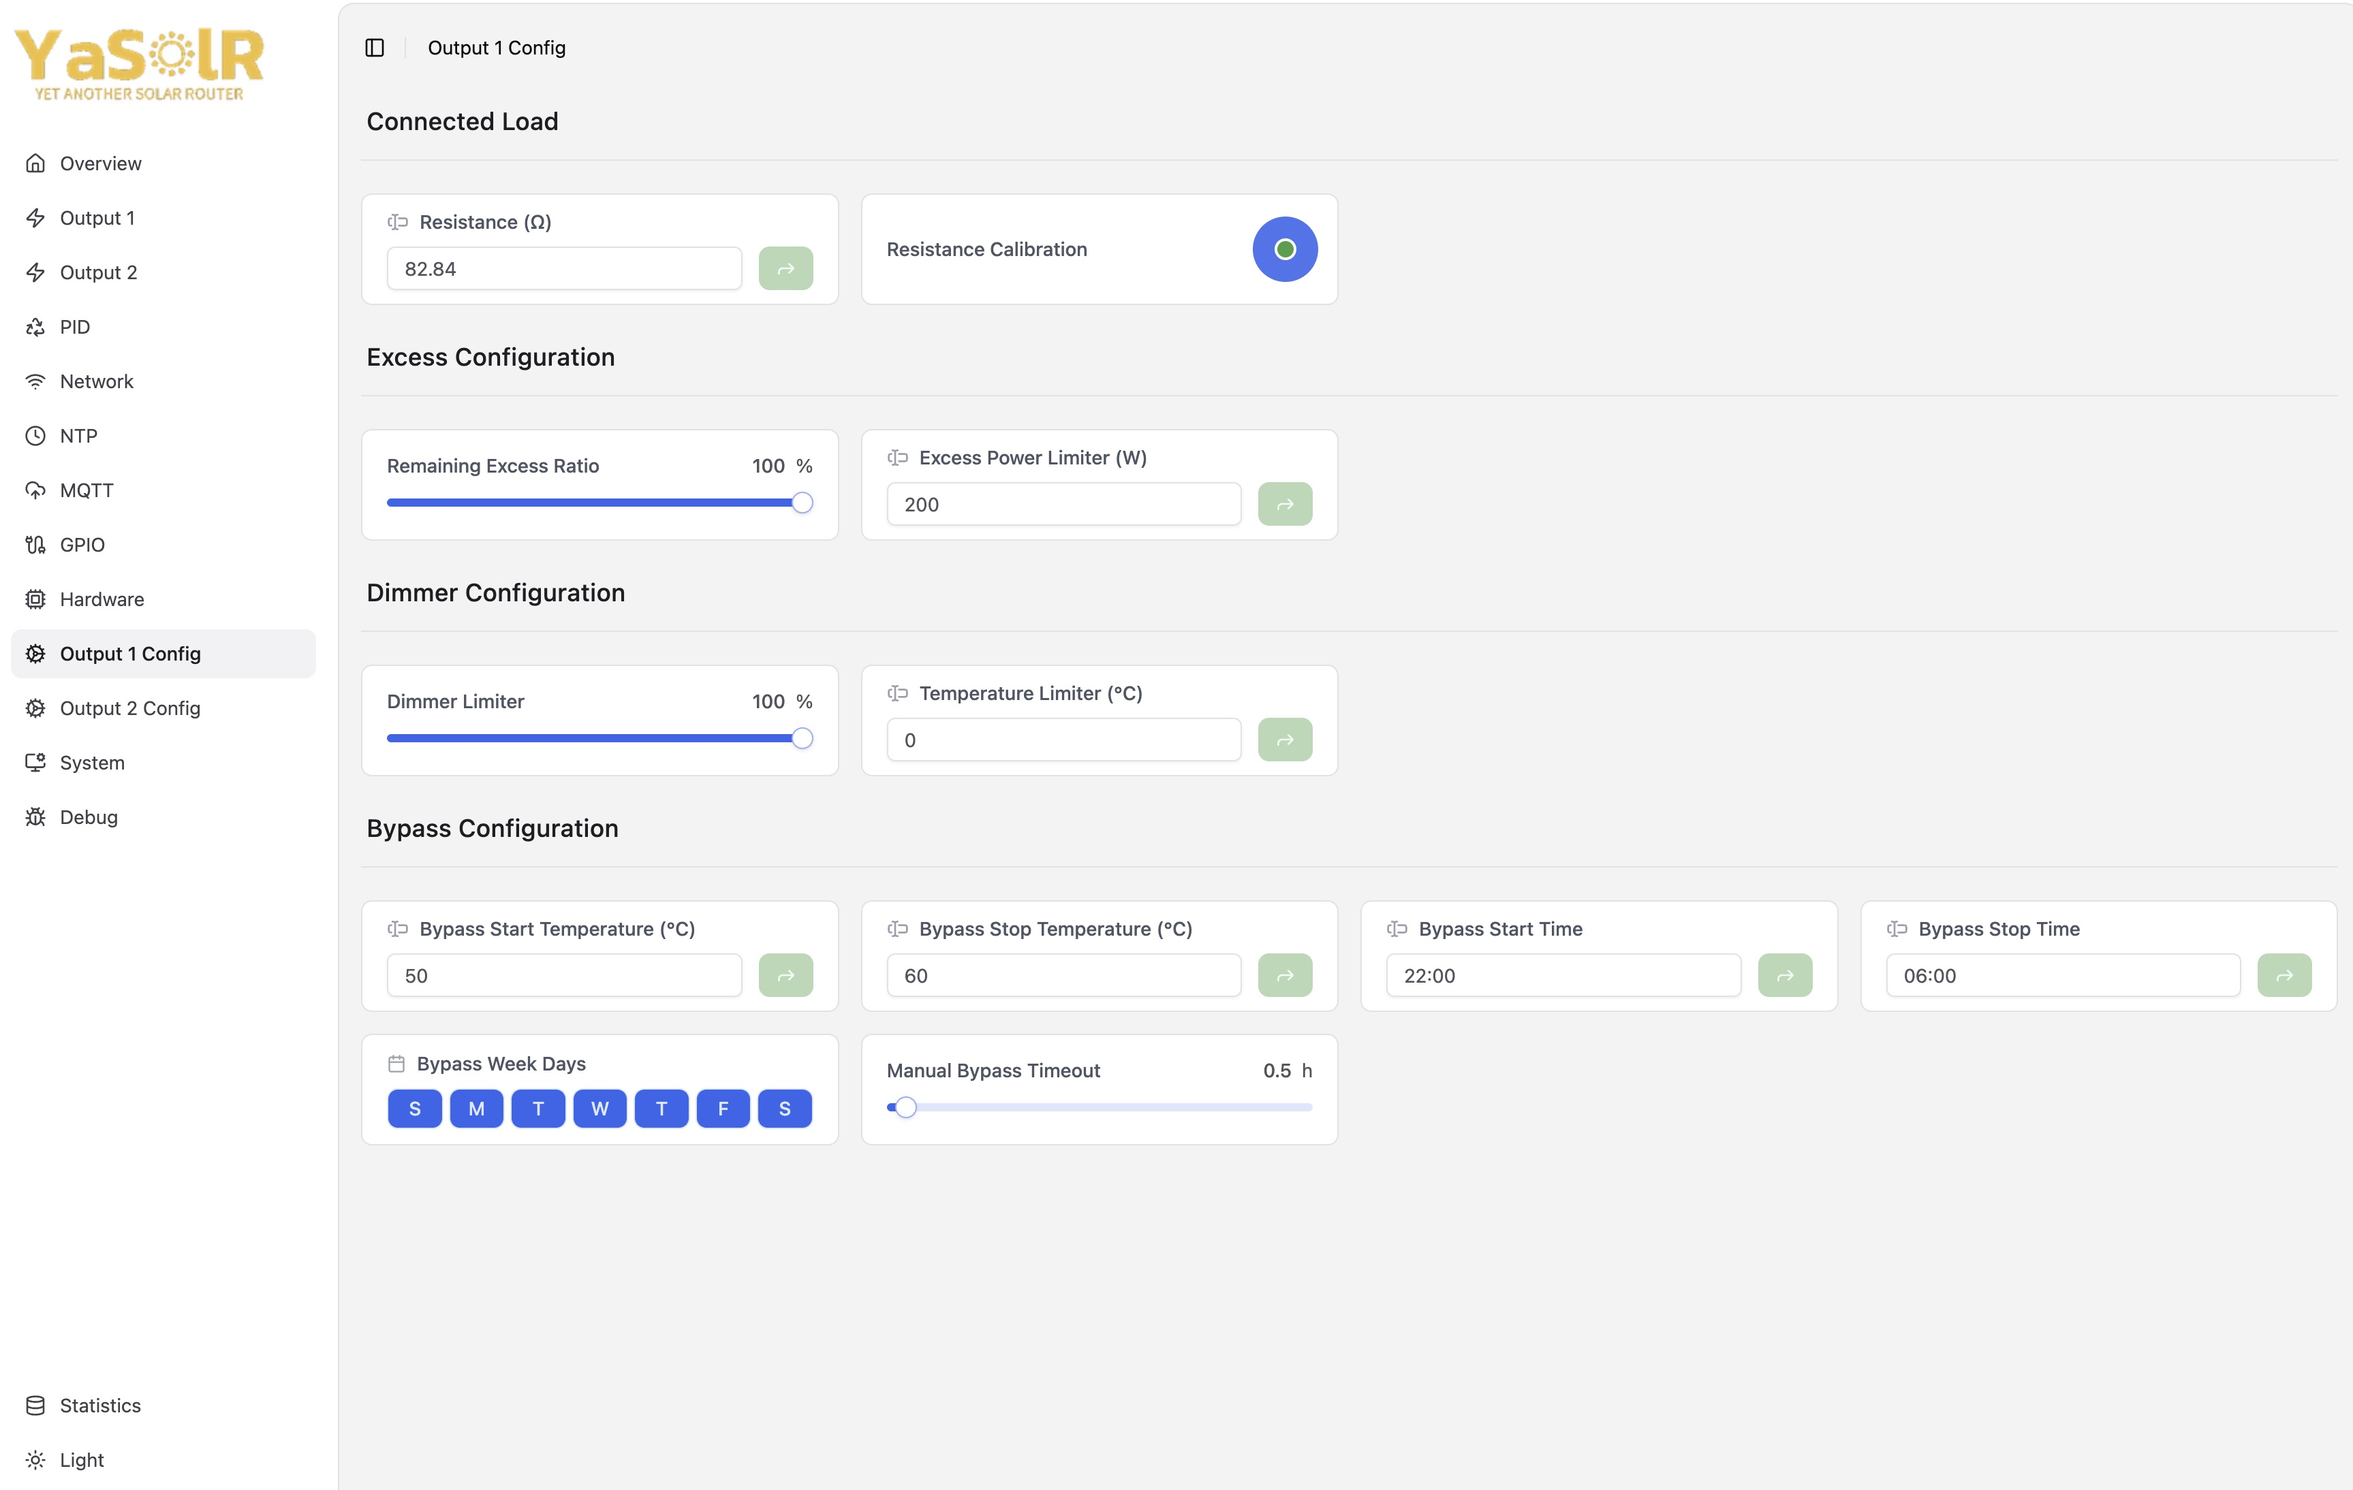
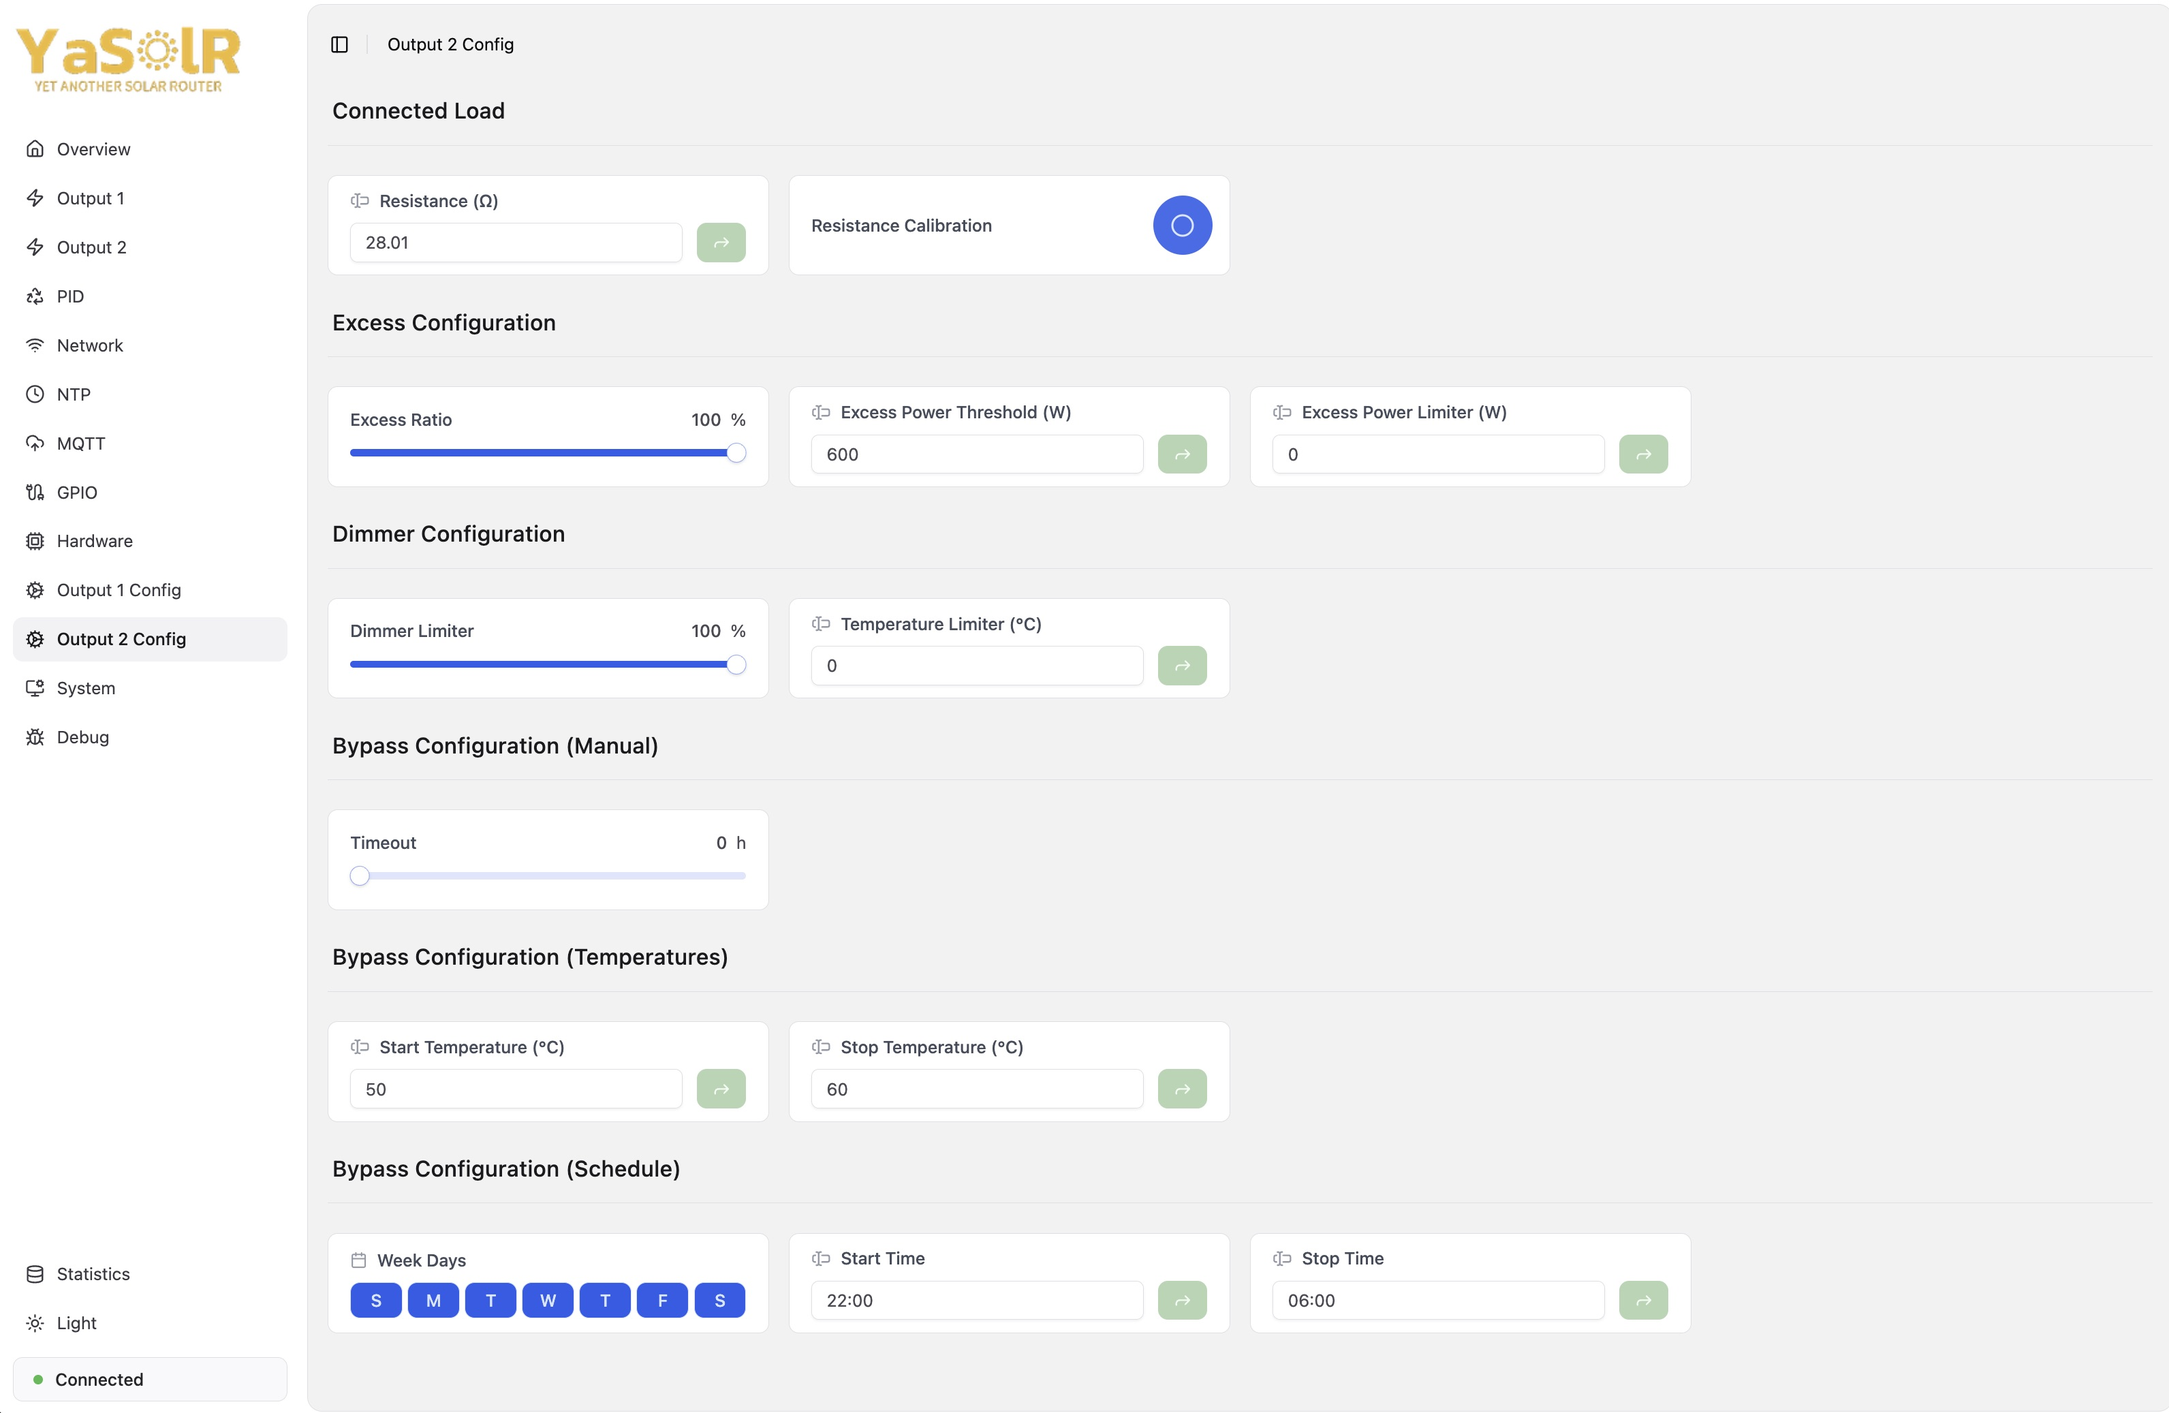
feat: Support Dimmer Excess Power Threshold (W)
Dimmer Excess Power Threshold (W) is an new config that, if set, will make the dimmer wait until an excess threshold is reached before starting dimming.

When the excess power is at around the threshold, the PID there will be some little oscillations because the PID will make the dimmer start, but the excess can still fluctuate to the point where the dimmer will stop because the excess has changed. This oscillation usually lasts a few seconds.

Ref: https://github.com/mathieucarbou/YaSolR/discussions/205

diff --git a/src/yasolr_dashboard.cpp b/src/yasolr_dashboard.cpp
@@ -391,6 +391,7 @@ static dash::PushButtonCard _output1ResistanceCalibration(dashboard, YASOLR_LBL_
 static dash::ProgressCard<uint8_t> _output1ResistanceCalibrationStatus(dashboard, YASOLR_LBL_186, 0, 100, "%");
 static dash::SeparatorCard<const char*> _output1ConfigSep3(dashboard, YASOLR_LBL_107);
 static dash::PercentageSliderCard _output1ExcessRatio(dashboard, YASOLR_LBL_112);
+static dash::InputCard<uint16_t> _output1ExcessMin(dashboard, YASOLR_LBL_092);
 static dash::InputCard<uint16_t> _output1ExcessLimiter(dashboard, YASOLR_LBL_061);
 static dash::SeparatorCard<const char*> _output1ConfigSep1(dashboard, YASOLR_LBL_136);
 static dash::PercentageSliderCard _output1DimmerDutyLimiter(dashboard, YASOLR_LBL_062);
@@ -413,6 +414,7 @@ static dash::PushButtonCard _output2ResistanceCalibration(dashboard, YASOLR_LBL_
 static dash::ProgressCard<uint8_t> _output2ResistanceCalibrationStatus(dashboard, YASOLR_LBL_186, 0, 100, "%");
 static dash::SeparatorCard<const char*> _output2ConfigSep3(dashboard, YASOLR_LBL_107);
 static dash::PercentageSliderCard _output2ExcessRatio(dashboard, YASOLR_LBL_112);
+static dash::InputCard<uint16_t> _output2ExcessMin(dashboard, YASOLR_LBL_092);
 static dash::InputCard<uint16_t> _output2ExcessLimiter(dashboard, YASOLR_LBL_061);
 static dash::SeparatorCard<const char*> _output2ConfigSep1(dashboard, YASOLR_LBL_136);
 static dash::PercentageSliderCard _output2DimmerDutyLimiter(dashboard, YASOLR_LBL_062);
@@ -1007,6 +1009,7 @@ void YaSolR::Website::begin() {
   _output1ConfigSep1.setTab(_output1ConfigTab);
   _output1DimmerDutyLimiter.setTab(_output1ConfigTab);
   _output1DimmerTempLimiter.setTab(_output1ConfigTab);
+  _output1ExcessMin.setTab(_output1ConfigTab);
   _output1ExcessLimiter.setTab(_output1ConfigTab);
   _output1ExcessRatio.setTab(_output1ConfigTab);
   _output1ConfigSep2.setTab(_output1ConfigTab);
@@ -1022,6 +1025,7 @@ void YaSolR::Website::begin() {
   _numConfig(_output1ResistanceInput, KEY_OUTPUT1_RESISTANCE);
   _sliderConfig(_output1DimmerDutyLimiter, KEY_OUTPUT1_DIMMER_LIMIT);
   _numConfig(_output1DimmerTempLimiter, KEY_OUTPUT1_DIMMER_TEMP_LIMITER);
+  _numConfig(_output1ExcessMin, KEY_OUTPUT1_EXCESS_MIN);
   _numConfig(_output1ExcessLimiter, KEY_OUTPUT1_EXCESS_LIMITER);
   _sliderConfig(_output1ExcessRatio, KEY_OUTPUT1_EXCESS_RATIO);
   _numConfig(_output1AutoStartTemp, KEY_OUTPUT1_TEMPERATURE_START);
@@ -1044,6 +1048,7 @@ void YaSolR::Website::begin() {
   _output2ConfigSep1.setTab(_output2ConfigTab);
   _output2DimmerDutyLimiter.setTab(_output2ConfigTab);
   _output2DimmerTempLimiter.setTab(_output2ConfigTab);
+  _output2ExcessMin.setTab(_output2ConfigTab);
   _output2ExcessLimiter.setTab(_output2ConfigTab);
   _output2ExcessRatio.setTab(_output2ConfigTab);
   _output2ConfigSep2.setTab(_output2ConfigTab);
@@ -1059,6 +1064,7 @@ void YaSolR::Website::begin() {
   _numConfig(_output2ResistanceInput, KEY_OUTPUT2_RESISTANCE);
   _sliderConfig(_output2DimmerDutyLimiter, KEY_OUTPUT2_DIMMER_LIMIT);
   _numConfig(_output2DimmerTempLimiter, KEY_OUTPUT2_DIMMER_TEMP_LIMITER);
+  _numConfig(_output2ExcessMin, KEY_OUTPUT2_EXCESS_MIN);
   _numConfig(_output2ExcessLimiter, KEY_OUTPUT2_EXCESS_LIMITER);
   _sliderConfig(_output2ExcessRatio, KEY_OUTPUT2_EXCESS_RATIO);
   _numConfig(_output2AutoStartTemp, KEY_OUTPUT2_TEMPERATURE_START);
@@ -1447,6 +1453,7 @@ void YaSolR::Website::initCards() {
   _output1DimmerDutyLimiter.setDisplay(dimmer1Enabled);
   _output1DimmerTempLimiter.setValue(config.get<uint8_t>(KEY_OUTPUT1_DIMMER_TEMP_LIMITER));
   _output1DimmerTempLimiter.setDisplay(dimmer1Enabled);
+  _output1ExcessMin.setValue(config.get<uint16_t>(KEY_OUTPUT1_EXCESS_MIN));
   _output1ExcessLimiter.setValue(config.get<uint16_t>(KEY_OUTPUT1_EXCESS_LIMITER));
   _output1ExcessLimiter.setDisplay(dimmer1Enabled);
   _output1ExcessRatio.setValue(config.get<uint8_t>(KEY_OUTPUT1_EXCESS_RATIO));
@@ -1476,6 +1483,7 @@ void YaSolR::Website::initCards() {
   _output2DimmerDutyLimiter.setDisplay(dimmer2Enabled);
   _output2DimmerTempLimiter.setValue(config.get<uint8_t>(KEY_OUTPUT2_DIMMER_TEMP_LIMITER));
   _output2DimmerTempLimiter.setDisplay(dimmer2Enabled);
+  _output2ExcessMin.setValue(config.get<uint16_t>(KEY_OUTPUT2_EXCESS_MIN));
   _output2ExcessLimiter.setValue(config.get<uint16_t>(KEY_OUTPUT2_EXCESS_LIMITER));
   _output2ExcessLimiter.setDisplay(dimmer2Enabled);
   _output2ExcessRatio.setValue(config.get<uint8_t>(KEY_OUTPUT2_EXCESS_RATIO));

diff --git a/lib/MycilaRouter/MycilaRouter.h b/lib/MycilaRouter/MycilaRouter.h
@@ -142,6 +142,7 @@ namespace Mycila {
               std::string autoStopTime;
               std::string weekDays;
               uint16_t excessPowerLimiter = 0;
+              uint16_t excessPowerMin = 0;
               float excessPowerRatio = 0.0f;
           } Config;
 
@@ -260,7 +261,15 @@ namespace Mycila {
           // - gridVoltage > 0
           // - availablePowerToDivert > 0
           // - config.calibratedResistance > 0
-          float divert(float gridVoltage, float availablePowerToDivert) {
+          // - error == setpoint - input (grid power)
+          // returns: the real used power as per the dimmer state
+          float divert(float gridVoltage, float availablePowerToDivert, float error) {
+            // If user has set a threshold for this output, we only activate it if the available power to divert is above or equal to this threshold
+            if (config.excessPowerMin > 0 && error < config.excessPowerMin && availablePowerToDivert < config.excessPowerMin) {
+              _dimmer->setDutyCycle(0);
+              return 0.0f;
+            }
+
             // maximum power of the load based on the calibrated resistance value
             const float maxPower = gridVoltage * gridVoltage / config.calibratedResistance;
 
@@ -463,13 +472,14 @@ namespace Mycila {
         return false;
       }
 
-      void noDivert() { divert(0, 0); }
+      void noDivert() { divert(0, 0, 0); }
 
       // preconditions:
       // - gridVoltage >= 0
       // - powerToDivert >= 0
+      // - error == setpoint - input (grid power)
       // - can only be called if !isCalibrationRunning()
-      float divert(const float gridVoltage, const float powerToDivert) {
+      float divert(const float gridVoltage, const float powerToDivert, const float error) {
         // copy the output vector
         std::vector<Output*> remainingOutputs = _outputs;
 
@@ -515,7 +525,7 @@ namespace Mycila {
               // Notes:
               // - we have ensured gridVoltage > 0
               // - we have ensured config.calibratedResistance > 0 with isAutoDimmerEnabled()
-              output->divert(gridVoltage, 100.0f);
+              output->divert(gridVoltage, 100.0f, error);
               it = remainingOutputs.erase(it);
             } else {
               ++it;
@@ -550,7 +560,7 @@ namespace Mycila {
 
           // - we have ensured gridVoltage > 0
           // - we have ensured config.calibratedResistance > 0 with isAutoDimmerEnabled()
-          routedPower += output->divert(gridVoltage, ratio);
+          routedPower += output->divert(gridVoltage, ratio, error);
         }
 
         return routedPower;

diff --git a/src/yasolr_config.cpp b/src/yasolr_config.cpp
@@ -142,6 +142,7 @@ static void init_config() {
   config.configure(KEY_OUTPUT1_DIMMER_TEMP_LIMITER, static_cast<uint8_t>(0));
   config.configure(KEY_OUTPUT1_DIMMER);
   config.configure(KEY_OUTPUT1_EXCESS_LIMITER, static_cast<uint16_t>(0));
+  config.configure(KEY_OUTPUT1_EXCESS_MIN, static_cast<uint16_t>(0));
   config.configure(KEY_OUTPUT1_EXCESS_RATIO, static_cast<uint8_t>(100));
   config.configure(KEY_OUTPUT1_RELAY);
   config.configure(KEY_OUTPUT1_RESISTANCE, 0.0f);
@@ -159,6 +160,7 @@ static void init_config() {
   config.configure(KEY_OUTPUT2_DIMMER_TEMP_LIMITER, static_cast<uint8_t>(0));
   config.configure(KEY_OUTPUT2_DIMMER);
   config.configure(KEY_OUTPUT2_EXCESS_LIMITER, static_cast<uint16_t>(0));
+  config.configure(KEY_OUTPUT2_EXCESS_MIN, static_cast<uint16_t>(0));
   config.configure(KEY_OUTPUT2_EXCESS_RATIO, static_cast<uint8_t>(100));
   config.configure(KEY_OUTPUT2_RELAY);
   config.configure(KEY_OUTPUT2_RESISTANCE, 0.0f);
@@ -301,6 +303,9 @@ void yasolr_init_config() {
     } else if (key == KEY_OUTPUT1_EXCESS_LIMITER) {
       output1.config.excessPowerLimiter = config.get<uint16_t>(KEY_OUTPUT1_EXCESS_LIMITER);
 
+    } else if (key == KEY_OUTPUT1_EXCESS_MIN) {
+      output1.config.excessPowerMin = config.get<uint16_t>(KEY_OUTPUT1_EXCESS_MIN);
+
     } else if (key == KEY_OUTPUT1_EXCESS_RATIO) {
       output1.config.excessPowerRatio = config.get<uint8_t>(KEY_OUTPUT1_EXCESS_RATIO) / 100.0f;
 
@@ -352,6 +357,9 @@ void yasolr_init_config() {
 
     } else if (key == KEY_OUTPUT2_EXCESS_LIMITER) {
       output2.config.excessPowerLimiter = config.get<uint16_t>(KEY_OUTPUT2_EXCESS_LIMITER);
+
+    } else if (key == KEY_OUTPUT2_EXCESS_MIN) {
+      output2.config.excessPowerMin = config.get<uint16_t>(KEY_OUTPUT2_EXCESS_MIN);
 
     } else if (key == KEY_OUTPUT2_EXCESS_RATIO) {
       output2.config.excessPowerRatio = config.get<uint8_t>(KEY_OUTPUT2_EXCESS_RATIO) / 100.0f;

diff --git a/src/yasolr_router.cpp b/src/yasolr_router.cpp
@@ -321,6 +321,7 @@ void yasolr_init_router() {
   output1.config.bypassTimeoutSec = config.get<uint16_t>(KEY_OUTPUT1_BYPASS_TIMEOUT);
   output1.config.calibratedResistance = config.get<float>(KEY_OUTPUT1_RESISTANCE);
   output1.config.dimmerTempLimit = config.get<uint8_t>(KEY_OUTPUT1_DIMMER_TEMP_LIMITER);
+  output1.config.excessPowerMin = config.get<uint16_t>(KEY_OUTPUT1_EXCESS_MIN);
   output1.config.excessPowerLimiter = config.get<uint16_t>(KEY_OUTPUT1_EXCESS_LIMITER);
   output1.config.excessPowerRatio = config.get<uint8_t>(KEY_OUTPUT1_EXCESS_RATIO) / 100.0f;
   output1.config.weekDays = config.getString(KEY_OUTPUT1_DAYS);
@@ -337,6 +338,7 @@ void yasolr_init_router() {
   output2.config.bypassTimeoutSec = config.get<uint16_t>(KEY_OUTPUT2_BYPASS_TIMEOUT);
   output2.config.calibratedResistance = config.get<float>(KEY_OUTPUT2_RESISTANCE);
   output2.config.dimmerTempLimit = config.get<uint8_t>(KEY_OUTPUT2_DIMMER_TEMP_LIMITER);
+  output2.config.excessPowerMin = config.get<uint16_t>(KEY_OUTPUT2_EXCESS_MIN);
   output2.config.excessPowerLimiter = config.get<uint16_t>(KEY_OUTPUT2_EXCESS_LIMITER);
   output2.config.excessPowerRatio = config.get<uint8_t>(KEY_OUTPUT2_EXCESS_RATIO) / 100.0f;
   output2.config.weekDays = config.getString(KEY_OUTPUT2_DAYS);

diff --git a/src/yasolr_pid.cpp b/src/yasolr_pid.cpp
@@ -17,7 +17,7 @@ Mycila::Task pidTask("PID", []() {
   if (voltage.has_value() && power.has_value()) {
     float gridPower = power.value();
     float powerToDivert = pidController.compute(gridPower);
-    float diverted = router.divert(voltage.value(), powerToDivert);
+    float diverted = router.divert(voltage.value(), powerToDivert, pidController.getError());
 
     if (diverted > 0) {
       // check if the measurement system is too slow
@@ -49,7 +49,9 @@ void yasolr_init_pid() {
   pidController.setIntegralCorrectionMode(Mycila::PID::IntegralCorrectionMode::CLAMP);
   pidController.reset(0);
 
-  pidTask.setEnabledWhen([]() { return !router.isCalibrationRunning(); });
+  pidTask.setEnabledWhen([]() {
+    return !router.isCalibrationRunning();
+  });
   if (config.get<bool>(KEY_ENABLE_DEBUG))
     pidTask.enableProfiling();
   coreTaskManager.addTask(pidTask);

diff --git a/include/yasolr_macros.h b/include/yasolr_macros.h
@@ -154,6 +154,7 @@
 #define KEY_OUTPUT1_DIMMER_TEMP_LIMITER    "o1_dim_max_t"
 #define KEY_OUTPUT1_DIMMER                 "o1_dim_type"
 #define KEY_OUTPUT1_EXCESS_LIMITER         "o1_excess_limit"
+#define KEY_OUTPUT1_EXCESS_MIN             "o1_excess_min"
 #define KEY_OUTPUT1_EXCESS_RATIO           "o1_excess_ratio"
 #define KEY_OUTPUT1_RELAY                  "o1_relay_type"
 #define KEY_OUTPUT1_RESISTANCE             "o1_resistance"
@@ -171,6 +172,7 @@
 #define KEY_OUTPUT2_DIMMER_TEMP_LIMITER    "o2_dim_max_t"
 #define KEY_OUTPUT2_DIMMER                 "o2_dim_type"
 #define KEY_OUTPUT2_EXCESS_LIMITER         "o2_excess_limit"
+#define KEY_OUTPUT2_EXCESS_MIN             "o2_excess_min"
 #define KEY_OUTPUT2_EXCESS_RATIO           "o2_excess_ratio"
 #define KEY_OUTPUT2_RELAY                  "o2_relay_type"
 #define KEY_OUTPUT2_SOURCE                 "o2_source"

diff --git a/include/i18n/fr.h b/include/i18n/fr.h
@@ -95,7 +95,7 @@
 #define YASOLR_LBL_089 "Serveur NTP"
 #define YASOLR_LBL_090 "Fuseau horaire"
 #define YASOLR_LBL_091 "Synchro temps avec navigateur"
-// #define YASOLR_LBL_092 "Nom du réseau WiFi"
+#define YASOLR_LBL_092 "Seuil du surplus (W)"
 // #define YASOLR_LBL_093 "Mot de passe du réseau WiFi"
 #define YASOLR_LBL_094 "Rester en mode point d'accès"
 #define YASOLR_LBL_095 "MQTT"

diff --git a/include/i18n/en.h b/include/i18n/en.h
@@ -95,7 +95,7 @@
 #define YASOLR_LBL_089 "NTP Server"
 #define YASOLR_LBL_090 "Timezone"
 #define YASOLR_LBL_091 "Sync time with browser"
-// #define YASOLR_LBL_092 "SSID"
+#define YASOLR_LBL_092 "Excess Power Threshold (W)"
 // #define YASOLR_LBL_093 "WiFi Password"
 #define YASOLR_LBL_094 "Stay in AP Mode"
 #define YASOLR_LBL_095 "MQTT"

diff --git a/docs/manual.md b/docs/manual.md
@@ -996,6 +996,12 @@ Excess Configuration allows to configure how the excess power is routed to the o
   This setting is also available in output 2 if you want to reduce its share.
   For example, if you want to assign 50% of the excess to output 1 and 25% to output 2, you can set output 1 to `50%` and output 2 to `50%` (which means 50% of the remaining 50%, so 25% of the total).
 
+- `Excess Power Threshold (W)`: Allows to set a threshold on the grid excess assigned to an output.
+  Only available in automatic mode.
+  For example, if output 1 is set to `500 W`, then output 1 will only take the grid excess if it is at least `500 W`.
+  Output 2 will be dimmed with the remaining excess.
+  A value of `0` means that the excess power threshold is disabled.
+
 - `Excess Power Limiter (W)`: Allows to set a hard limit on the grid excess assigned to an output.
   Only available in automatic mode.
   For example, if output 1 is set to `500 W`, then output 1 will take at most `500 W` of the grid excess.
